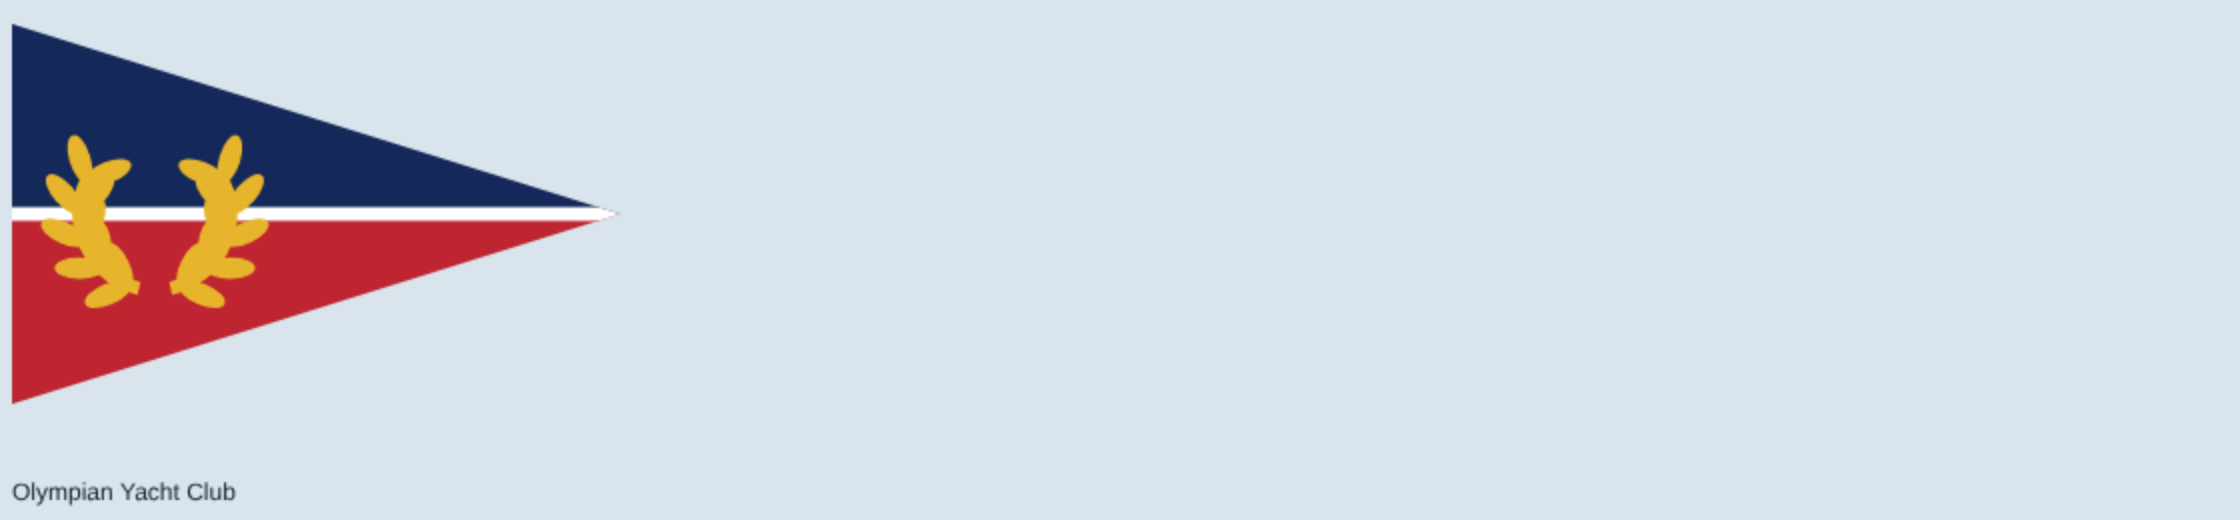
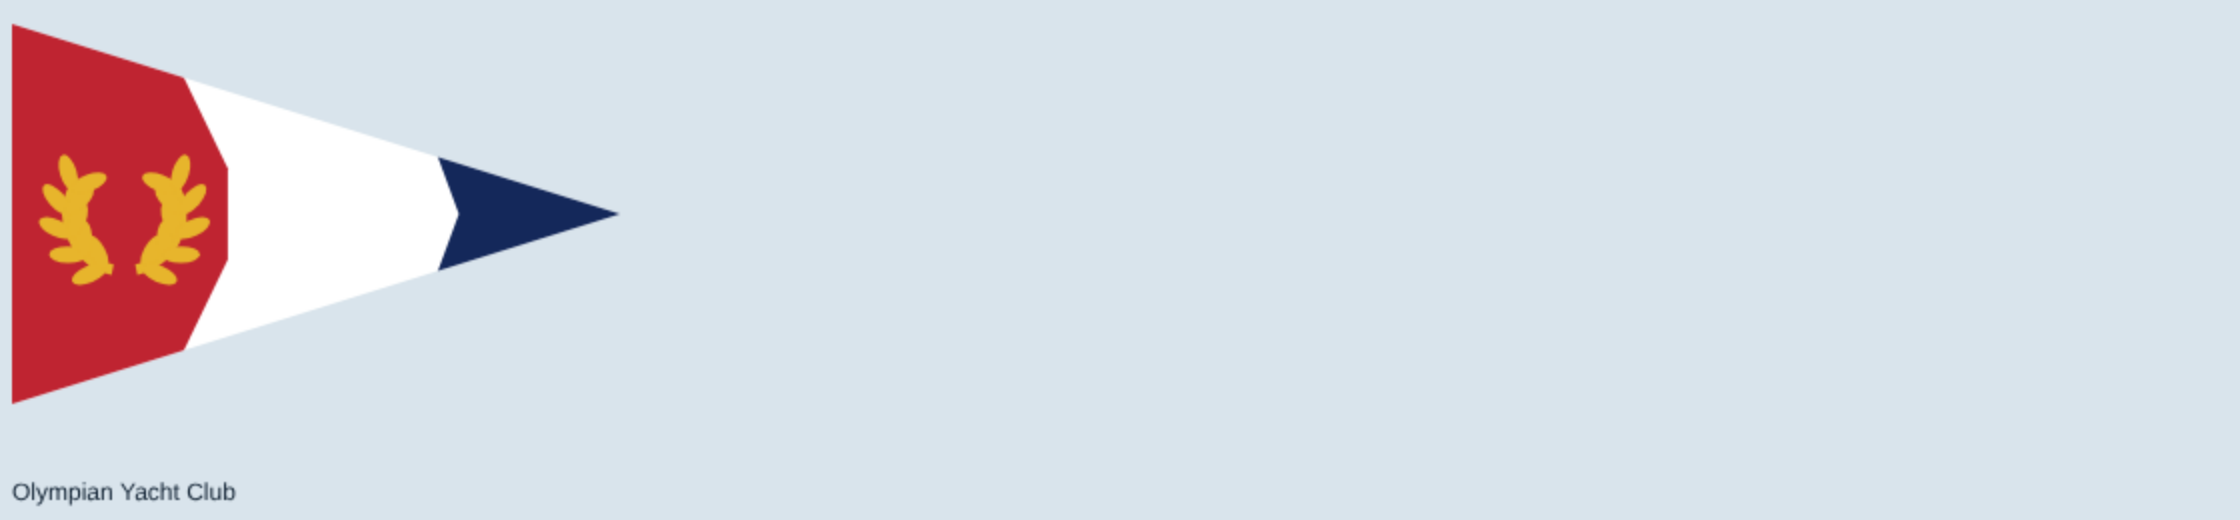
Burgees: Olympian in the owner's layout (red hoist panel with a pointed edge, white middle, dark-blue notched tip) with the laurel where the star was
Claude-Session: https://claude.ai/code/session_012Uu5QjYRsEpBxuz7xgHWhs

Changed region(s): [[0.0, 0.0308, 0.2812, 0.6769]]

diff --git a/src/render/burgeeArt.ts b/src/render/burgeeArt.ts
@@ -18,7 +18,6 @@ const dot = (g: G, c: string, x: number, y: number, r: number) => { g.fillStyle 
 const oval = (g: G, c: string, x: number, y: number, rx: number, ry: number, rot = 0) => { g.fillStyle = c; g.beginPath(); g.ellipse(x, y, rx, ry, rot, 0, 7); g.fill(); };
 const stroke = (g: G, c: string, w: number, ...p: P[]) => { g.strokeStyle = c; g.lineWidth = w; g.lineJoin = 'round'; g.lineCap = 'butt'; g.beginPath(); p.forEach(([x, y], i) => i ? g.lineTo(x, y) : g.moveTo(x, y)); g.stroke(); };
 const arc = (g: G, c: string, w: number, x: number, y: number, r: number, a0: number, a1: number) => { g.strokeStyle = c; g.lineWidth = w; g.lineCap = 'butt'; g.beginPath(); g.arc(x, y, r, a0, a1); g.stroke(); };
-const half = (g: G, W: number, H: number, a: string, b: string) => { rect(g, a, 0, 0, W, H / 2); rect(g, b, 0, H / 2, W, H / 2); };
 
 /** A border just inside the cut (a fimbriation, as classic burgees have): d is its width as a share of the hoist. */
 const border = (g: G, W: number, H: number, shape: 'pennant' | 'swallow', c: string, d: number) => { burgeePath(g, W, H, shape); g.strokeStyle = c; g.lineWidth = H * d * 2; g.lineJoin = 'miter'; g.stroke(); };
@@ -52,13 +51,15 @@ export const PARODY_BURGEES: Burgee[] = [
       g.strokeStyle = S; g.lineWidth = u * 0.04; g.beginPath(); g.arc(x, y - u * 0.26, u * 0.05, 0, 7); g.stroke(); // the ring
       arc(g, S, u * 0.05, x, y + u * 0.02, u * 0.2, 0.12 * Math.PI, 0.88 * Math.PI); // the arms
       for (const s of [-1, 1]) poly(g, S, [x + s * u * 0.14, y + u * 0.2 - u * 0.03], [x + s * u * 0.27, y + u * 0.05], [x + s * u * 0.14, y + u * 0.08]); } },
-  { id: 'cyc', shape: 'pennant', ratio: 1.6, // classic, the amateur's club: dark blue over red, a white line between, one gold laurel wreath (the Greek games) on the line
-    draw: (g, W, H) => { half(g, W, H, NAVY, RED); rect(g, WHITE, 0, H * 0.5 - H * 0.018, W, H * 0.036);
-      const x = W * 0.235, y = H * 0.5, r = H * 0.2, d = Math.PI / 180;
+  { id: 'cyc', shape: 'pennant', ratio: 1.6, // classic, the amateur's club (the owner's layout): a red hoist panel with a blunt point, a white middle, a dark-blue tip with a chevron notch; one gold laurel wreath (the Greek games) on the red
+    draw: (g, W, H) => { fill(g, W, H, WHITE);
+      poly(g, RED, [0, 0], [W * 0.24, 0], [W * 0.355, H * 0.38], [W * 0.355, H * 0.62], [W * 0.24, H], [0, H]);
+      poly(g, NAVY, [W * 0.62, 0], [W, 0], [W, H], [W * 0.62, H], [W * 0.735, H * 0.5]);
+      const x = W * 0.185, y = H * 0.5, r = H * 0.15, d = Math.PI / 180;
       for (const s of [-1, 1]) { // two branches from the bottom, each a stem with leaves pairing off it, growing up
-        const a0 = (s > 0 ? 78 : 102) * d, a1 = (s > 0 ? -28 : 208) * d; arc(g, GOLD, H * 0.035, x, y, r, Math.min(a0, a1), Math.max(a0, a1));
+        const a0 = (s > 0 ? 78 : 102) * d, a1 = (s > 0 ? -28 : 208) * d; arc(g, GOLD, H * 0.028, x, y, r, Math.min(a0, a1), Math.max(a0, a1));
         for (let i = 0; i < 5; i++) { const a = (s > 0 ? 70 - i * 24 : 110 + i * 24) * d, grow = a + s * -Math.PI / 2, px = x + Math.cos(a) * r, py = y + Math.sin(a) * r;
-          for (const k of [-1, 1]) { const dir = grow + k * 0.75; oval(g, GOLD, px + Math.cos(dir) * H * 0.06, py + Math.sin(dir) * H * 0.06, H * 0.065, H * 0.028, dir); } } } } },
+          for (const k of [-1, 1]) { const dir = grow + k * 0.75; oval(g, GOLD, px + Math.cos(dir) * H * 0.045, py + Math.sin(dir) * H * 0.045, H * 0.049, H * 0.022, dir); } } } } },
   { id: 'tyc', shape: 'pennant', ratio: 1.8, // mid-century: deep blue over gray water, one white fin
     draw: (g, W, H) => { rect(g, '#16386b', 0, 0, W, H * 0.64); rect(g, '#8d99a6', 0, H * 0.64, W, H * 0.36); poly(g, WHITE, [W * 0.09, H * 0.64], [W * 0.17, H * 0.22], [W * 0.27, H * 0.64]); } },
   { id: 'pyc', shape: 'pennant', ratio: 1.5, // modern-formal: navy, gold, a red band; one horseshoe, symmetrical
